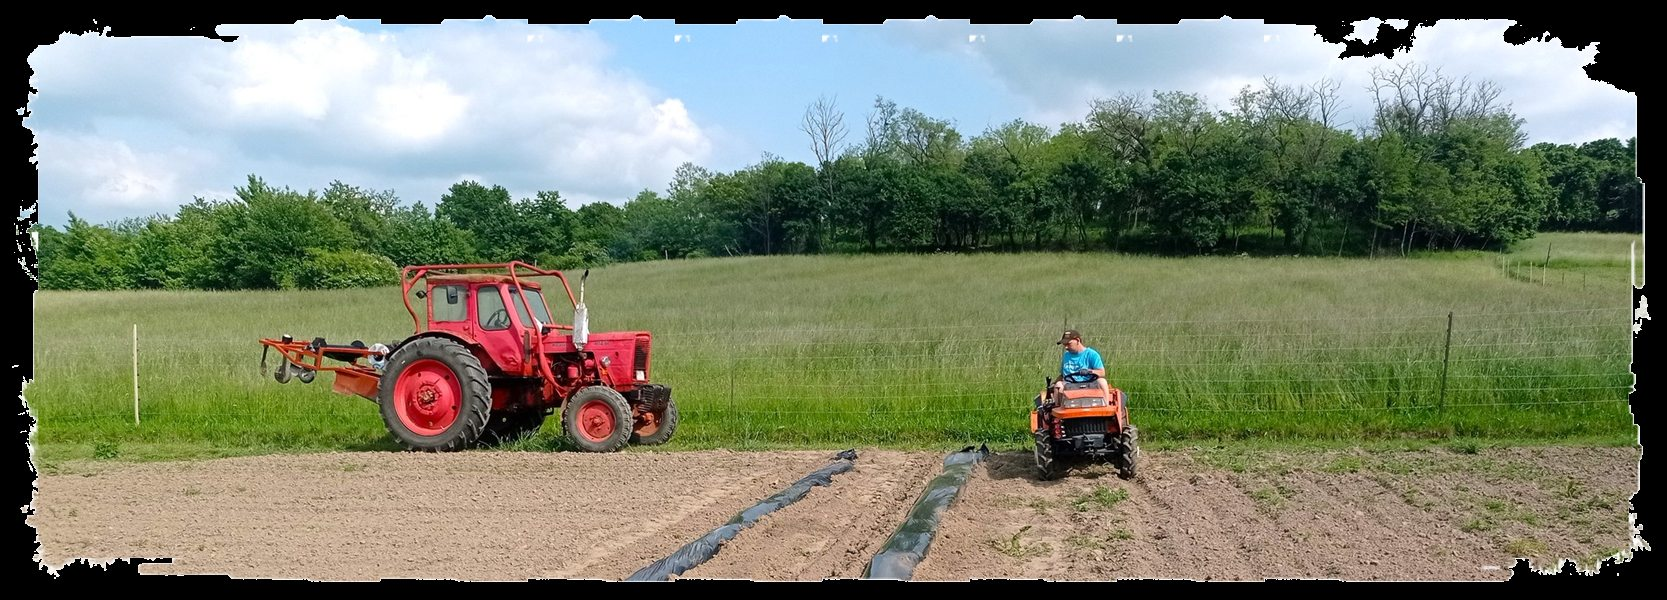
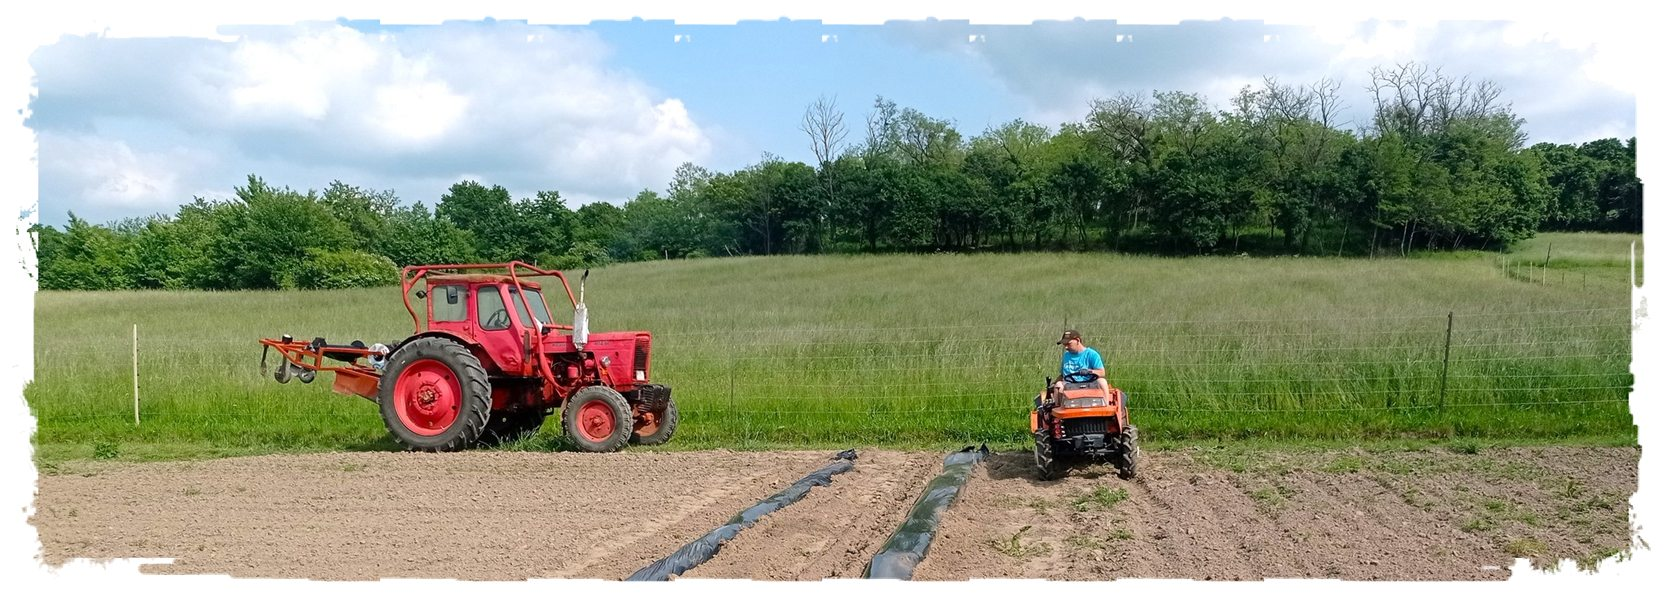
perf(frontend): optimize visual assets and footer loading

Changed region(s): [[0.0, 0.0, 1.0, 1.0]]

diff --git a/src/frontend/biogarden-client/src/shared/components/layout/Navbar.tsx b/src/frontend/biogarden-client/src/shared/components/layout/Navbar.tsx
@@ -1,5 +1,5 @@
-import { useEffect, useMemo, useState } from "react";
-import { Link, NavLink, useNavigate } from "react-router-dom";
+import { useEffect, useMemo, useState, type MouseEvent } from "react";
+import { Link, NavLink, useLocation, useNavigate } from "react-router-dom";
 import { clearAuthSession } from "../../../features/auth/utils/authStorage";
 import logo from "../../../assets/images/logo.png";
 import bakonykincse from "../../../assets/images/bakonykincse.png";
@@ -28,6 +28,7 @@ export default function Navbar({
   cartItemCount = 0,
 }: NavbarProps) {
   const navigate = useNavigate();
+  const { pathname, search } = useLocation();
   const [isScrolled, setIsScrolled] = useState(false);
   const [mobileOpen, setMobileOpen] = useState(false);
   const [mobileAccountOpen, setMobileAccountOpen] = useState(false);
@@ -72,6 +73,21 @@ export default function Navbar({
     window.scrollTo({ top: 0, behavior: "smooth" });
     closeMobile();
   };
+
+  const scrollTopWhenCurrentPage =
+    (target: string) => (event: MouseEvent<HTMLAnchorElement>) => {
+      const [targetPath, targetQuery] = target.split("?");
+      const targetSearch = targetQuery ? `?${targetQuery}` : "";
+      const isCurrentTarget = pathname === targetPath && search === targetSearch;
+
+      if (!isCurrentTarget) {
+        closeMobile();
+        return;
+      }
+
+      event.preventDefault();
+      goTop();
+    };
 
   const navLinkClass = useMemo(
   () =>
@@ -123,7 +139,7 @@ export default function Navbar({
         >
           <Link
             to={ROUTES.home}
-            onClick={goTop}
+            onClick={scrollTopWhenCurrentPage(ROUTES.home)}
             aria-label="Kezdőlap"
             className="flex min-w-0 items-center gap-3"
           >
@@ -140,12 +156,12 @@ export default function Navbar({
           </Link>
 
           <div className="hidden lg:flex items-center gap-8">
-            <NavLink to={ROUTES.about} className={navLinkClass}>
+            <NavLink to={ROUTES.about} className={navLinkClass} onClick={scrollTopWhenCurrentPage(ROUTES.about)}>
               Rólunk
             </NavLink>
 
             <div className="group relative">
-              <NavLink to={ROUTES.products} className={navLinkClass}>
+              <NavLink to={ROUTES.products} className={navLinkClass} onClick={scrollTopWhenCurrentPage(ROUTES.products)}>
                 <span className="flex items-center gap-1">
                   Termékek
                   <svg
@@ -166,6 +182,7 @@ export default function Navbar({
                   <NavLink
                     key={item.to}
                     to={item.to}
+                    onClick={scrollTopWhenCurrentPage(item.to)}
                     className="block rounded-xl px-4 py-3 text-sm text-site-nav transition hover:bg-site-surface-soft hover:text-site-green-dark"
                   >
                     {item.label}
@@ -174,7 +191,7 @@ export default function Navbar({
               </div>
             </div>
 
-            <NavLink to={ROUTES.posts} className={navLinkClass}>
+            <NavLink to={ROUTES.posts} className={navLinkClass} onClick={scrollTopWhenCurrentPage(ROUTES.posts)}>
               Tudástár
             </NavLink>
 
@@ -267,11 +284,11 @@ className="inline-flex items-center text-[0.95rem] lg:text-base uppercase tracki
           ].join(" ")}
         >
           <div className="mx-auto flex max-w-7xl flex-col gap-1 px-4 py-4 sm:px-6">
-            <NavLink to={ROUTES.about} className={mobileItemClass} onClick={closeMobile}>
+            <NavLink to={ROUTES.about} className={mobileItemClass} onClick={scrollTopWhenCurrentPage(ROUTES.about)}>
               Rólunk
             </NavLink>
 
-            <NavLink to={ROUTES.products} className={mobileItemClass} onClick={closeMobile}>
+            <NavLink to={ROUTES.products} className={mobileItemClass} onClick={scrollTopWhenCurrentPage(ROUTES.products)}>
               Termékek
             </NavLink>
 
@@ -286,7 +303,7 @@ className="inline-flex items-center text-[0.95rem] lg:text-base uppercase tracki
                     key={item.to}
                     to={item.to}
                     className="rounded-lg px-2 py-2 text-sm text-site-nav hover:bg-white hover:text-site-green-dark"
-                    onClick={closeMobile}
+                    onClick={scrollTopWhenCurrentPage(item.to)}
                   >
                     {item.label}
                   </NavLink>
@@ -294,7 +311,7 @@ className="inline-flex items-center text-[0.95rem] lg:text-base uppercase tracki
               </div>
             </div>
 
-            <NavLink to={ROUTES.posts} className={mobileItemClass} onClick={closeMobile}>
+            <NavLink to={ROUTES.posts} className={mobileItemClass} onClick={scrollTopWhenCurrentPage(ROUTES.posts)}>
               Tudástár
             </NavLink>
 

diff --git a/src/frontend/biogarden-client/src/shared/components/layout/Footer.tsx b/src/frontend/biogarden-client/src/shared/components/layout/Footer.tsx
@@ -1,10 +1,10 @@
-import { useEffect, useState, type MouseEvent, type ReactNode } from "react";
+import { lazy, Suspense, useEffect, useState, type MouseEvent, type ReactNode } from "react";
 import { NavLink, useLocation } from "react-router-dom";
-import ContactForm from "../../../features/contact/components/ContactForm";
 import { ROUTES } from "../../constants/routes";
 
 const mapSource =
   "https://www.google.com/maps?q=Bakonyszentl%C3%A1szl%C3%B3%2C%208431&z=10&output=embed";
+const ContactForm = lazy(() => import("../../../features/contact/components/ContactForm"));
 
 export default function Footer() {
   const { pathname } = useLocation();
@@ -212,11 +212,19 @@ export default function Footer() {
             >
               ×
             </button>
-            <ContactForm
-              className="pt-12 shadow-2xl"
-              surfaceClassName="bg-white"
-              titleId="contact-modal-title"
-            />
+            <Suspense
+              fallback={
+                <div className="rounded-sm bg-white p-10 pt-12 text-center text-site-muted shadow-2xl">
+                  Kapcsolati űrlap betöltése...
+                </div>
+              }
+            >
+              <ContactForm
+                className="pt-12 shadow-2xl"
+                surfaceClassName="bg-white"
+                titleId="contact-modal-title"
+              />
+            </Suspense>
           </div>
         </div>
       )}

diff --git a/src/frontend/biogarden-client/index.html b/src/frontend/biogarden-client/index.html
@@ -6,7 +6,7 @@
     <meta name="viewport" content="width=device-width, initial-scale=1.0" />
     <meta
       http-equiv="Content-Security-Policy"
-      content="default-src 'self'; base-uri 'self'; object-src 'none'; form-action 'self'; img-src 'self' data: https: http://localhost:5097; style-src 'self' 'unsafe-inline'; script-src 'self'; connect-src 'self' https: http://localhost:5097 http://localhost:5173 http://localhost:4173 ws://localhost:5173 ws://localhost:4173"
+      content="default-src 'self'; base-uri 'self'; object-src 'none'; form-action 'self'; frame-src https://www.google.com https://maps.google.com; img-src 'self' data: https: http://localhost:5097; style-src 'self' 'unsafe-inline'; script-src 'self'; connect-src 'self' https: http://localhost:5097 http://localhost:5173 http://localhost:4173 ws://localhost:5173 ws://localhost:4173"
     />
     <meta
       name="description"

diff --git a/src/backend/tests/Biogarden.WebApi.Tests/HealthEndpointTests.cs b/src/backend/tests/Biogarden.WebApi.Tests/HealthEndpointTests.cs
@@ -51,7 +51,9 @@ public sealed class HealthEndpointTests : IClassFixture<BiogardenWebApiFactory>
             "Permissions-Policy",
             "camera=(), microphone=(), geolocation=(), payment=()");
         Assert.True(response.Headers.TryGetValues("Content-Security-Policy", out var values));
-        Assert.Contains("frame-ancestors 'none'", Assert.Single(values));
+        var contentSecurityPolicy = Assert.Single(values);
+        Assert.Contains("frame-ancestors 'none'", contentSecurityPolicy);
+        Assert.Contains("frame-src https://www.google.com https://maps.google.com", contentSecurityPolicy);
     }
 
     private static void AssertHeader(

diff --git a/src/backend/Biogarden.WebApi/Middleware/SecurityHeadersMiddleware.cs b/src/backend/Biogarden.WebApi/Middleware/SecurityHeadersMiddleware.cs
@@ -7,6 +7,7 @@ public sealed class SecurityHeadersMiddleware
         "base-uri 'self'; " +
         "frame-ancestors 'none'; " +
         "form-action 'self'; " +
+        "frame-src https://www.google.com https://maps.google.com; " +
         "img-src 'self' data:; " +
         "style-src 'self' 'unsafe-inline'; " +
         "script-src 'self' 'unsafe-inline'; " +
